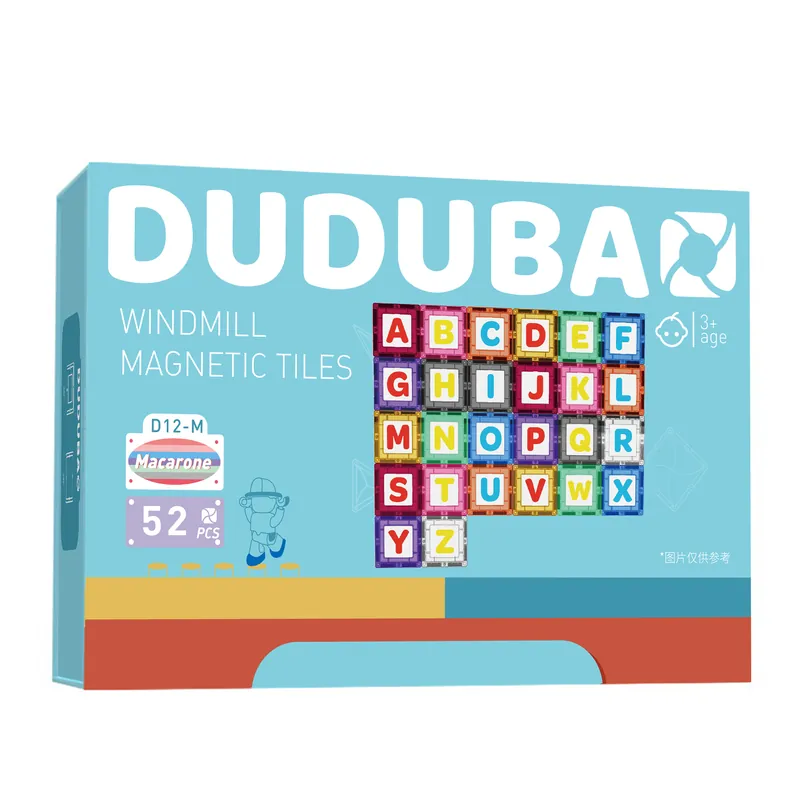
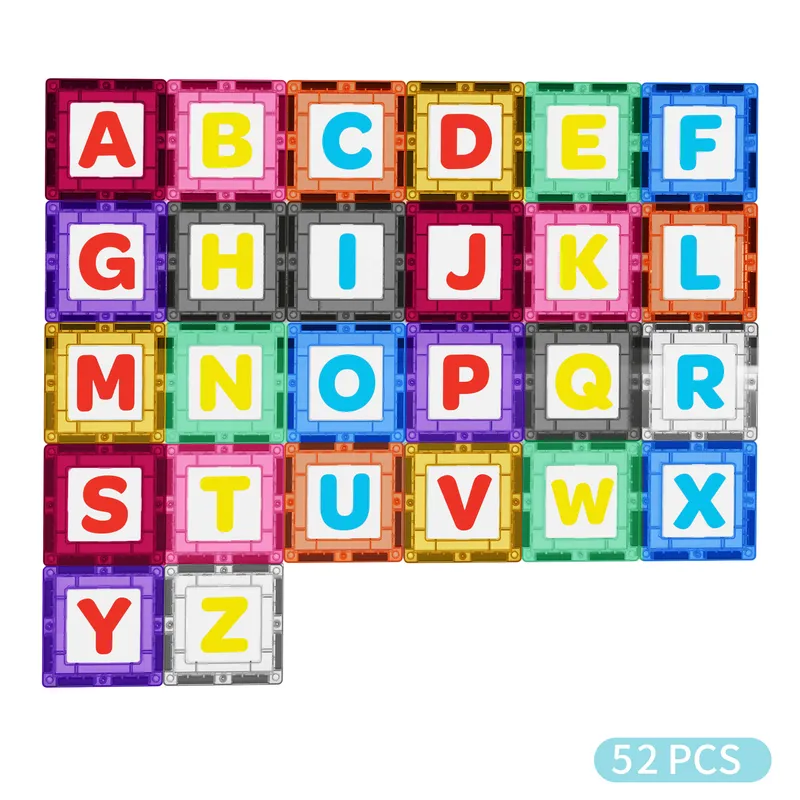
D12-M: use flat config image instead of box (Ryan 11-18)

diff --git a/products/d11-d12-number-alphabet-magnetic-tiles.html b/products/d11-d12-number-alphabet-magnetic-tiles.html
@@ -19,7 +19,7 @@
 <link rel="stylesheet" href="styles.css?v=d7eb97481886">
 <link rel="stylesheet" href="buyer-pages.css?v=208-v1">
 <script src="script.js?v=6b154597b6fc" defer></script>
-<script type="application/ld+json">{"@context": "https://schema.org", "@graph": [{"@type": "WebPage", "@id": "https://www.dudubaotoys.com/products/d11-d12-number-alphabet-magnetic-tiles.html#webpage", "url": "https://www.dudubaotoys.com/products/d11-d12-number-alphabet-magnetic-tiles.html", "name": "D11 / D12 Number & Alphabet Tile Sets | DUDUBAO", "description": "Explore D11 number and D12 alphabet sets with magnetic square frames and replaceable cards. Compare components, printing, play ideas and OEM packaging options."}, {"@type": "BreadcrumbList", "itemListElement": [{"@type": "ListItem", "position": 1, "name": "Home", "item": "https://www.dudubaotoys.com/"}, {"@type": "ListItem", "position": 2, "name": "Full Range", "item": "https://www.dudubaotoys.com/products/full-range.html"}, {"@type": "ListItem", "position": 3, "name": "D11 / D12", "item": "https://www.dudubaotoys.com/products/d11-d12-number-alphabet-magnetic-tiles.html"}]}, {"@type": "FAQPage", "mainEntity": [{"@type": "Question", "name": "How do D11-C and D12 differ?", "acceptedAnswer": {"@type": "Answer", "text": "D11-C has numbers 0–9 and arithmetic symbols printed on both sides of its cards. D12-C and D12-M have 26 A–Z cards with uppercase and lowercase printing."}}, {"@type": "Question", "name": "Are all 36 or 52 pieces magnetic tiles?", "acceptedAnswer": {"@type": "Answer", "text": "The counts include two component types. D11-C has 18 magnetic frames and 18 non-magnetic cards. Each D12 set has 26 magnetic frames and 26 non-magnetic cards."}}, {"@type": "Question", "name": "Can the cards be changed?", "acceptedAnswer": {"@type": "Answer", "text": "Yes. The cards are replaceable, so you can change the number or letter displayed in a square frame."}}, {"@type": "Question", "name": "Which versions are listed?", "acceptedAnswer": {"@type": "Answer", "text": "D11-C is the rainbow number set. D12-C and D12-M are the rainbow and pastel alphabet sets."}}]}, {"@type": "Product", "@id": "https://www.dudubaotoys.com/products/d11-d12-number-alphabet-magnetic-tiles.html#product-d11-c", "name": "D11-C 36-Piece Rainbow Number Tile & Card Set", "sku": "D11-C", "mpn": "D11-C", "description": "18 magnetic square frames with 18 double-sided number and arithmetic-symbol cards.", "image": "https://www.dudubaotoys.com/assets/products/d11-d12/d11-c-set.webp", "url": "https://www.dudubaotoys.com/products/d11-d12-number-alphabet-magnetic-tiles.html", "category": "Toys & Games > Toys > Building Toys > Magnetic Building Toys", "brand": {"@type": "Brand", "name": "DUDUBAO"}, "manufacturer": {"@type": "Organization", "@id": "https://www.dudubaotoys.com/#organization", "name": "DUDUBAO", "url": "https://www.dudubaotoys.com/"}}, {"@type": "Product", "@id": "https://www.dudubaotoys.com/products/d11-d12-number-alphabet-magnetic-tiles.html#product-d12-c", "name": "D12-C 52-Piece Rainbow Alphabet Tile & Card Set", "sku": "D12-C", "mpn": "D12-C", "description": "26 magnetic square frames with 26 A–Z cards printed in uppercase and lowercase.", "image": "https://www.dudubaotoys.com/assets/products/d11-d12/d12-c-set.webp", "url": "https://www.dudubaotoys.com/products/d11-d12-number-alphabet-magnetic-tiles.html", "category": "Toys & Games > Toys > Building Toys > Magnetic Building Toys", "brand": {"@type": "Brand", "name": "DUDUBAO"}, "manufacturer": {"@type": "Organization", "@id": "https://www.dudubaotoys.com/#organization", "name": "DUDUBAO", "url": "https://www.dudubaotoys.com/"}}, {"@type": "Product", "@id": "https://www.dudubaotoys.com/products/d11-d12-number-alphabet-magnetic-tiles.html#product-d12-m", "name": "D12-M 52-Piece Pastel Alphabet Tile & Card Set", "sku": "D12-M", "mpn": "D12-M", "description": "26 pastel magnetic square frames with 26 A–Z cards printed in uppercase and lowercase.", "image": "https://www.dudubaotoys.com/assets/products/d11-d12/d12-m-package.webp", "url": "https://www.dudubaotoys.com/products/d11-d12-number-alphabet-magnetic-tiles.html", "category": "Toys & Games > Toys > Building Toys > Magnetic Building Toys", "brand": {"@type": "Brand", "name": "DUDUBAO"}, "manufacturer": {"@type": "Organization", "@id": "https://www.dudubaotoys.com/#organization", "name": "DUDUBAO", "url": "https://www.dudubaotoys.com/"}}]}</script>
+<script type="application/ld+json">{"@context": "https://schema.org", "@graph": [{"@type": "WebPage", "@id": "https://www.dudubaotoys.com/products/d11-d12-number-alphabet-magnetic-tiles.html#webpage", "url": "https://www.dudubaotoys.com/products/d11-d12-number-alphabet-magnetic-tiles.html", "name": "D11 / D12 Number & Alphabet Tile Sets | DUDUBAO", "description": "Explore D11 number and D12 alphabet sets with magnetic square frames and replaceable cards. Compare components, printing, play ideas and OEM packaging options."}, {"@type": "BreadcrumbList", "itemListElement": [{"@type": "ListItem", "position": 1, "name": "Home", "item": "https://www.dudubaotoys.com/"}, {"@type": "ListItem", "position": 2, "name": "Full Range", "item": "https://www.dudubaotoys.com/products/full-range.html"}, {"@type": "ListItem", "position": 3, "name": "D11 / D12", "item": "https://www.dudubaotoys.com/products/d11-d12-number-alphabet-magnetic-tiles.html"}]}, {"@type": "FAQPage", "mainEntity": [{"@type": "Question", "name": "How do D11-C and D12 differ?", "acceptedAnswer": {"@type": "Answer", "text": "D11-C has numbers 0–9 and arithmetic symbols printed on both sides of its cards. D12-C and D12-M have 26 A–Z cards with uppercase and lowercase printing."}}, {"@type": "Question", "name": "Are all 36 or 52 pieces magnetic tiles?", "acceptedAnswer": {"@type": "Answer", "text": "The counts include two component types. D11-C has 18 magnetic frames and 18 non-magnetic cards. Each D12 set has 26 magnetic frames and 26 non-magnetic cards."}}, {"@type": "Question", "name": "Can the cards be changed?", "acceptedAnswer": {"@type": "Answer", "text": "Yes. The cards are replaceable, so you can change the number or letter displayed in a square frame."}}, {"@type": "Question", "name": "Which versions are listed?", "acceptedAnswer": {"@type": "Answer", "text": "D11-C is the rainbow number set. D12-C and D12-M are the rainbow and pastel alphabet sets."}}]}, {"@type": "Product", "@id": "https://www.dudubaotoys.com/products/d11-d12-number-alphabet-magnetic-tiles.html#product-d11-c", "name": "D11-C 36-Piece Rainbow Number Tile & Card Set", "sku": "D11-C", "mpn": "D11-C", "description": "18 magnetic square frames with 18 double-sided number and arithmetic-symbol cards.", "image": "https://www.dudubaotoys.com/assets/products/d11-d12/d11-c-set.webp", "url": "https://www.dudubaotoys.com/products/d11-d12-number-alphabet-magnetic-tiles.html", "category": "Toys & Games > Toys > Building Toys > Magnetic Building Toys", "brand": {"@type": "Brand", "name": "DUDUBAO"}, "manufacturer": {"@type": "Organization", "@id": "https://www.dudubaotoys.com/#organization", "name": "DUDUBAO", "url": "https://www.dudubaotoys.com/"}}, {"@type": "Product", "@id": "https://www.dudubaotoys.com/products/d11-d12-number-alphabet-magnetic-tiles.html#product-d12-c", "name": "D12-C 52-Piece Rainbow Alphabet Tile & Card Set", "sku": "D12-C", "mpn": "D12-C", "description": "26 magnetic square frames with 26 A–Z cards printed in uppercase and lowercase.", "image": "https://www.dudubaotoys.com/assets/products/d11-d12/d12-c-set.webp", "url": "https://www.dudubaotoys.com/products/d11-d12-number-alphabet-magnetic-tiles.html", "category": "Toys & Games > Toys > Building Toys > Magnetic Building Toys", "brand": {"@type": "Brand", "name": "DUDUBAO"}, "manufacturer": {"@type": "Organization", "@id": "https://www.dudubaotoys.com/#organization", "name": "DUDUBAO", "url": "https://www.dudubaotoys.com/"}}, {"@type": "Product", "@id": "https://www.dudubaotoys.com/products/d11-d12-number-alphabet-magnetic-tiles.html#product-d12-m", "name": "D12-M 52-Piece Pastel Alphabet Tile & Card Set", "sku": "D12-M", "mpn": "D12-M", "description": "26 pastel magnetic square frames with 26 A–Z cards printed in uppercase and lowercase.", "image": "https://www.dudubaotoys.com/assets/products/d11-d12/d12-m-set.webp", "url": "https://www.dudubaotoys.com/products/d11-d12-number-alphabet-magnetic-tiles.html", "category": "Toys & Games > Toys > Building Toys > Magnetic Building Toys", "brand": {"@type": "Brand", "name": "DUDUBAO"}, "manufacturer": {"@type": "Organization", "@id": "https://www.dudubaotoys.com/#organization", "name": "DUDUBAO", "url": "https://www.dudubaotoys.com/"}}]}</script>
 </head><body class="buyer-page">
 <a class="buyer-skip" href="products/d15-c-christmas-tree-bell-run.html#buyer-main">Skip to content</a>
 <header class="site-header">
@@ -67,7 +67,7 @@
 </div></section>
 <section class="buyer-section"><div class="buyer-wrap">
 <h2>Versions &amp; packaging</h2>
-<div class="buyer-color-grid"><article><img src="assets/products/d11-d12/d11-c-set.webp" alt="D11-C 36-piece number and symbol set" loading="lazy" decoding="async"><p>D11-C 36-piece number and symbol set</p></article><article><img src="assets/products/d11-d12/d11-c-package.webp" alt="D11-C rainbow color box" loading="lazy" decoding="async"><p>D11-C rainbow color box</p></article><article><img src="assets/products/d11-d12/d12-c-package.webp" alt="D12-C rainbow alphabet color box" loading="lazy" decoding="async"><p>D12-C rainbow alphabet color box</p></article><article><img src="assets/products/d11-d12/d12-m-package.webp" alt="D12-M pastel alphabet color box" loading="lazy" decoding="async"><p>D12-M pastel alphabet color box</p></article></div>
+<div class="buyer-color-grid"><article><img src="assets/products/d11-d12/d11-c-set.webp" alt="D11-C 36-piece number and symbol set" loading="lazy" decoding="async"><p>D11-C 36-piece number and symbol set</p></article><article><img src="assets/products/d11-d12/d11-c-package.webp" alt="D11-C rainbow color box" loading="lazy" decoding="async"><p>D11-C rainbow color box</p></article><article><img src="assets/products/d11-d12/d12-m-set.webp" alt="D12-M 52-piece pastel alphabet set" loading="lazy" decoding="async"><p>D12-M 52-piece pastel alphabet set</p></article><article><img src="assets/products/d11-d12/d12-m-package.webp" alt="D12-M pastel alphabet color box" loading="lazy" decoding="async"><p>D12-M pastel alphabet color box</p></article></div>
 </div></section>
 <section class="buyer-section buyer-tint"><div class="buyer-wrap buyer-spec-grid"><div>
 <h2>How to play</h2>
